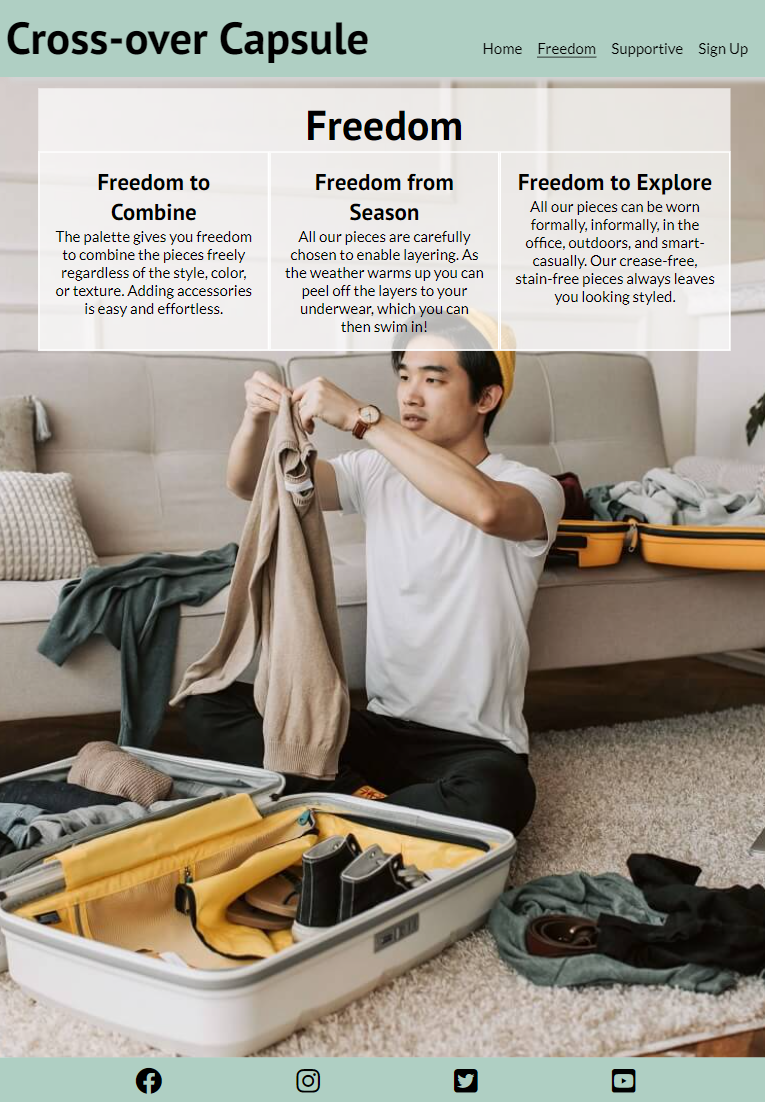
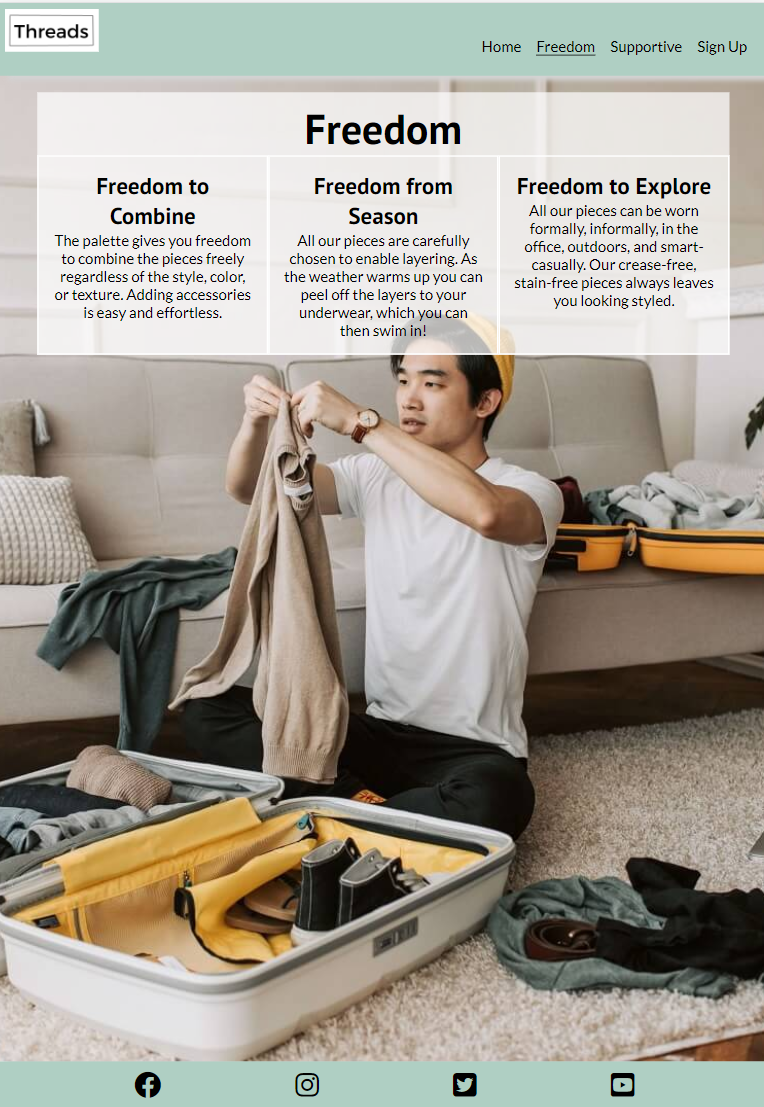
Threads images replaced for readme prep

diff --git a/README.md b/README.md
@@ -1,7 +1,7 @@
 ![coc_icon](assets/images/coc_icon.png)
 
-# Cross-over Capsule
-Cross-over Capsule is intended to provide a support for professionals too busy living life to worry about what they should wear. The site targets people who want to maximise their freedom of living and to minimise stress.
+# Threads
+Threads is intended to provide a support for professionals too busy living life to worry about what they should wear. The site targets people who want to maximise their freedom of living and to minimise stress.
 
 ![Responsive](assets/images/responsive-results.png)
 
@@ -140,6 +140,7 @@ At various stages of the project, feedback was gained and changes made to:
 - Several refinements had to be made for responsiveness throughout the project, for mobile, tablet, laptop and desktop.  The mobile Galaxy Fold, and the Tablet Mac Air, was used.
 - There was a concern that the signup tab form dissappeared behind the white bits of the underlying image. A vote was made by concerned opionators and it was decided to leave it for now.
 - Halfway through the project I ran out of Codeanywhere hours and had to switch to Gitpod.  The Code Institute Tutor had me working on Gitpod within a day - so efficient!!
+- In response to the peer-review the logo and name of the site was changed from "Cross-over Capsule" to "Threads".
 
 ### Tests
 #### Solved Bugs
